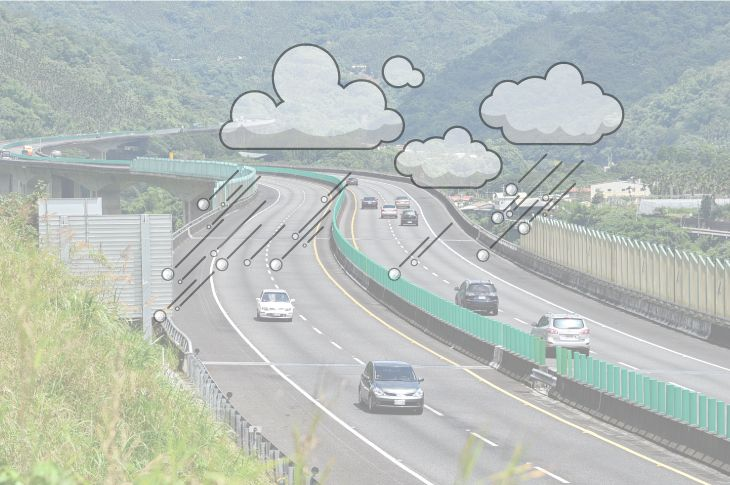
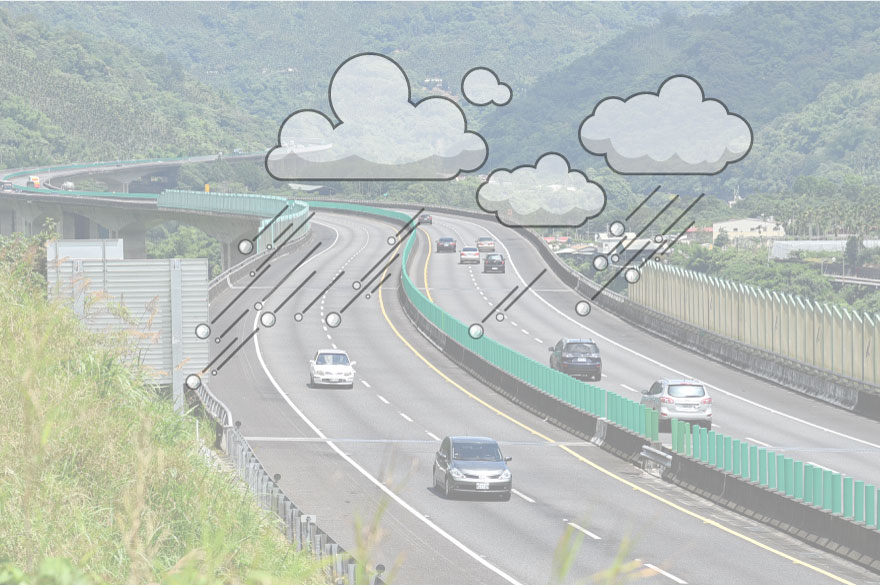
add long form mobile image

diff --git a/src/weather.js b/src/weather.js
@@ -74,6 +74,12 @@ $(document).ready(function(){
 
     if(w <= 768){
 
+		$('#img-ice-bg').attr('data-src', 'public/assets/weather/ice_m_bg.jpg')
+		$('#img-ice-0').attr('data-src', 'public/assets/weather/ice_m_1.jpg')
+		$('#img-ice-1').attr('data-src', 'public/assets/weather/ice_m_2.jpg')
+		$('#img-ice-2').attr('data-src', 'public/assets/weather/ice_m_3.jpg')
+		$('#img-ice-3').attr('data-src', 'public/assets/weather/ice_m_4.jpg')
+
         $(window).on('scroll', function(){
 
             scroll_now = $(window).scrollTop();
@@ -107,6 +113,12 @@ $(document).ready(function(){
     }
 
     else{
+
+		$('#img-ice-bg').attr('data-src', 'public/assets/weather/ice_bg.jpg')
+		$('#img-ice-0').attr('data-src', 'public/assets/weather/ice_1.jpg')
+		$('#img-ice-1').attr('data-src', 'public/assets/weather/ice_2.jpg')
+		$('#img-ice-2').attr('data-src', 'public/assets/weather/ice_3.jpg')
+		$('#img-ice-3').attr('data-src', 'public/assets/weather/ice_4.jpg')
 
         $(window).on('mousewheel', function(event, delta, deltaX, deltaY){
 			if(delta == 1){

diff --git a/src/game.html b/src/game.html
@@ -216,10 +216,10 @@
     <div class="img-contain container mt-0">
         <div class="lazy-contain">
             <img id="img-ice-bg" class="lazyload" data-src="public/assets/weather/ice_bg.jpg">
-            <img id="img-ice-0" class="lazyload rotate-3" data-src="public/assets/weather/ice_1.jpg">
-            <img id="img-ice-1" class="lazyload rotate-3" data-src="public/assets/weather/ice_2.jpg">
-            <img id="img-ice-2" class="lazyload rotate-3" data-src="public/assets/weather/ice_3.jpg">
-            <img id="img-ice-3" class="lazyload rotate-3" data-src="public/assets/weather/ice_4.jpg">
+            <img id="img-ice-0" class="lazyload rotate-3" data-src="">
+            <img id="img-ice-1" class="lazyload rotate-3" data-src="">
+            <img id="img-ice-2" class="lazyload rotate-3" data-src="">
+            <img id="img-ice-3" class="lazyload rotate-3" data-src="">
         </div>
     </div>
     <div class="content container">

diff --git a/style/weather.css b/style/weather.css
@@ -84,6 +84,9 @@ h1{
     .hbutton {
         height: 46px;
     }
+    .lazy-contain:after {
+        padding-bottom: 115.8%;
+    }
 }
 
 @media screen and (min-width: 768px) and (max-width: 960px){
@@ -103,5 +106,8 @@ h1{
     }
     .hbutton {
         height: 46px;
+    }
+    .lazy-contain:after {
+        padding-bottom: 115.8%;
     }
 }
